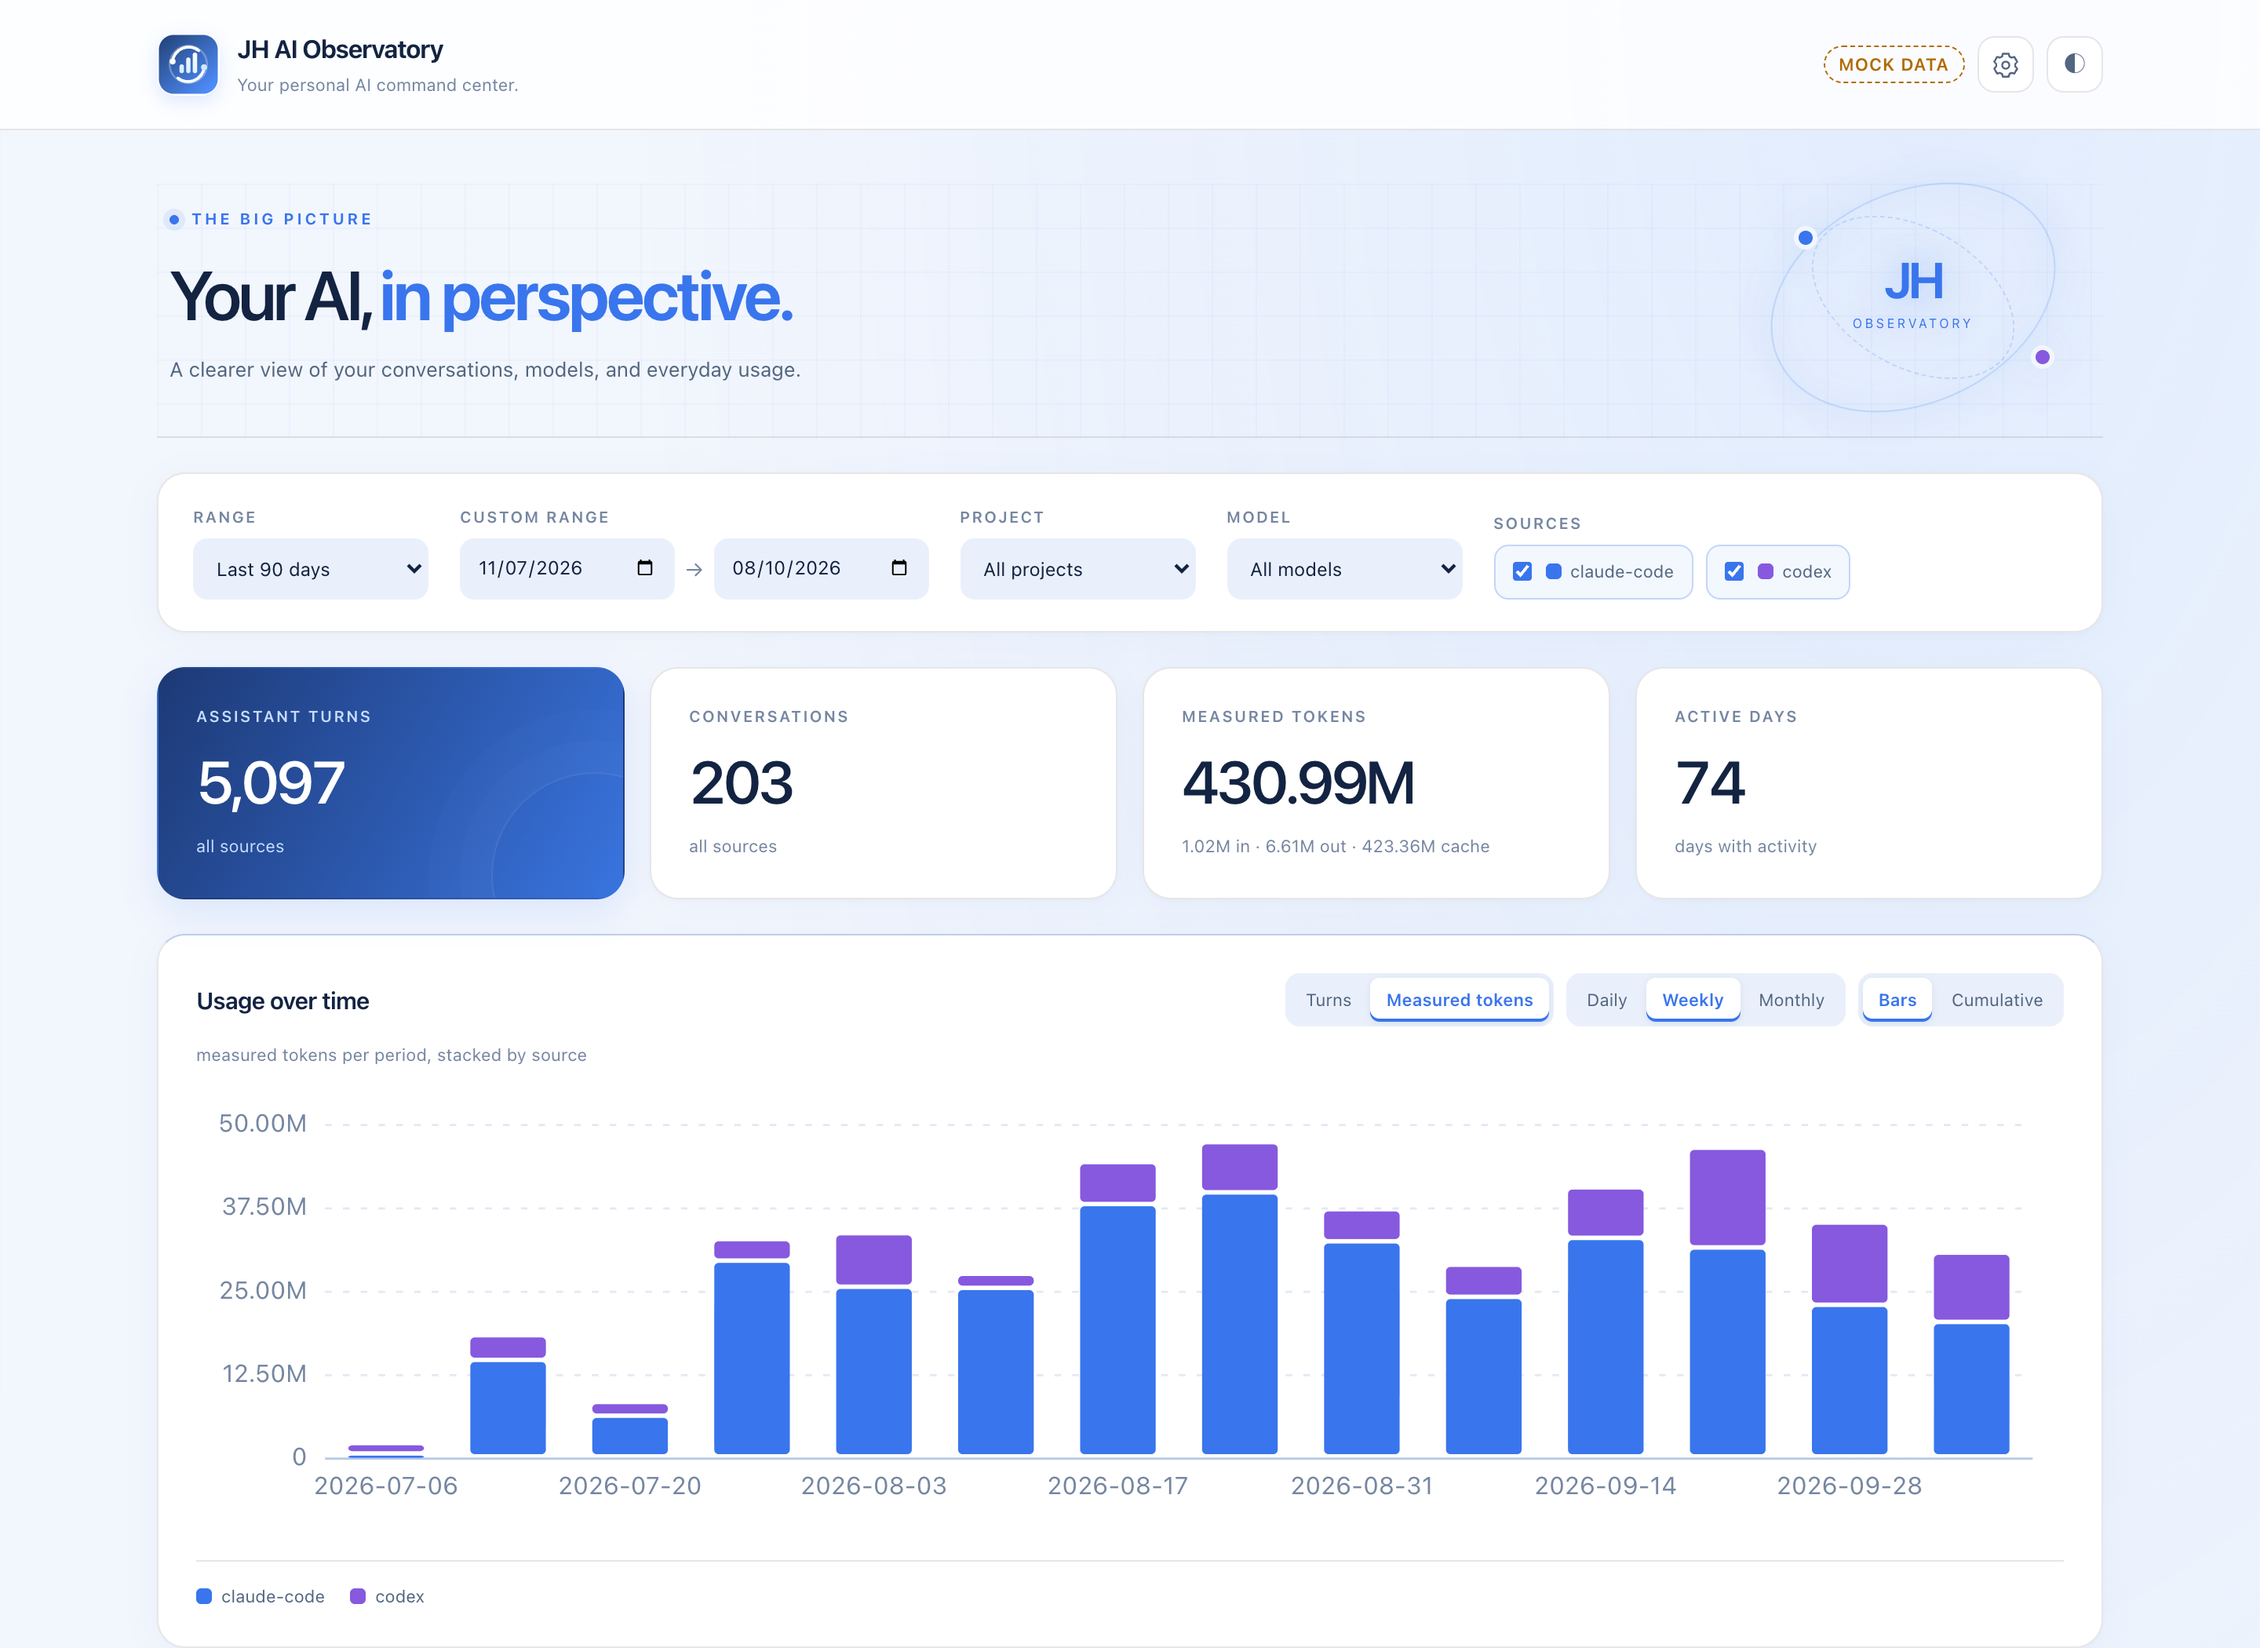
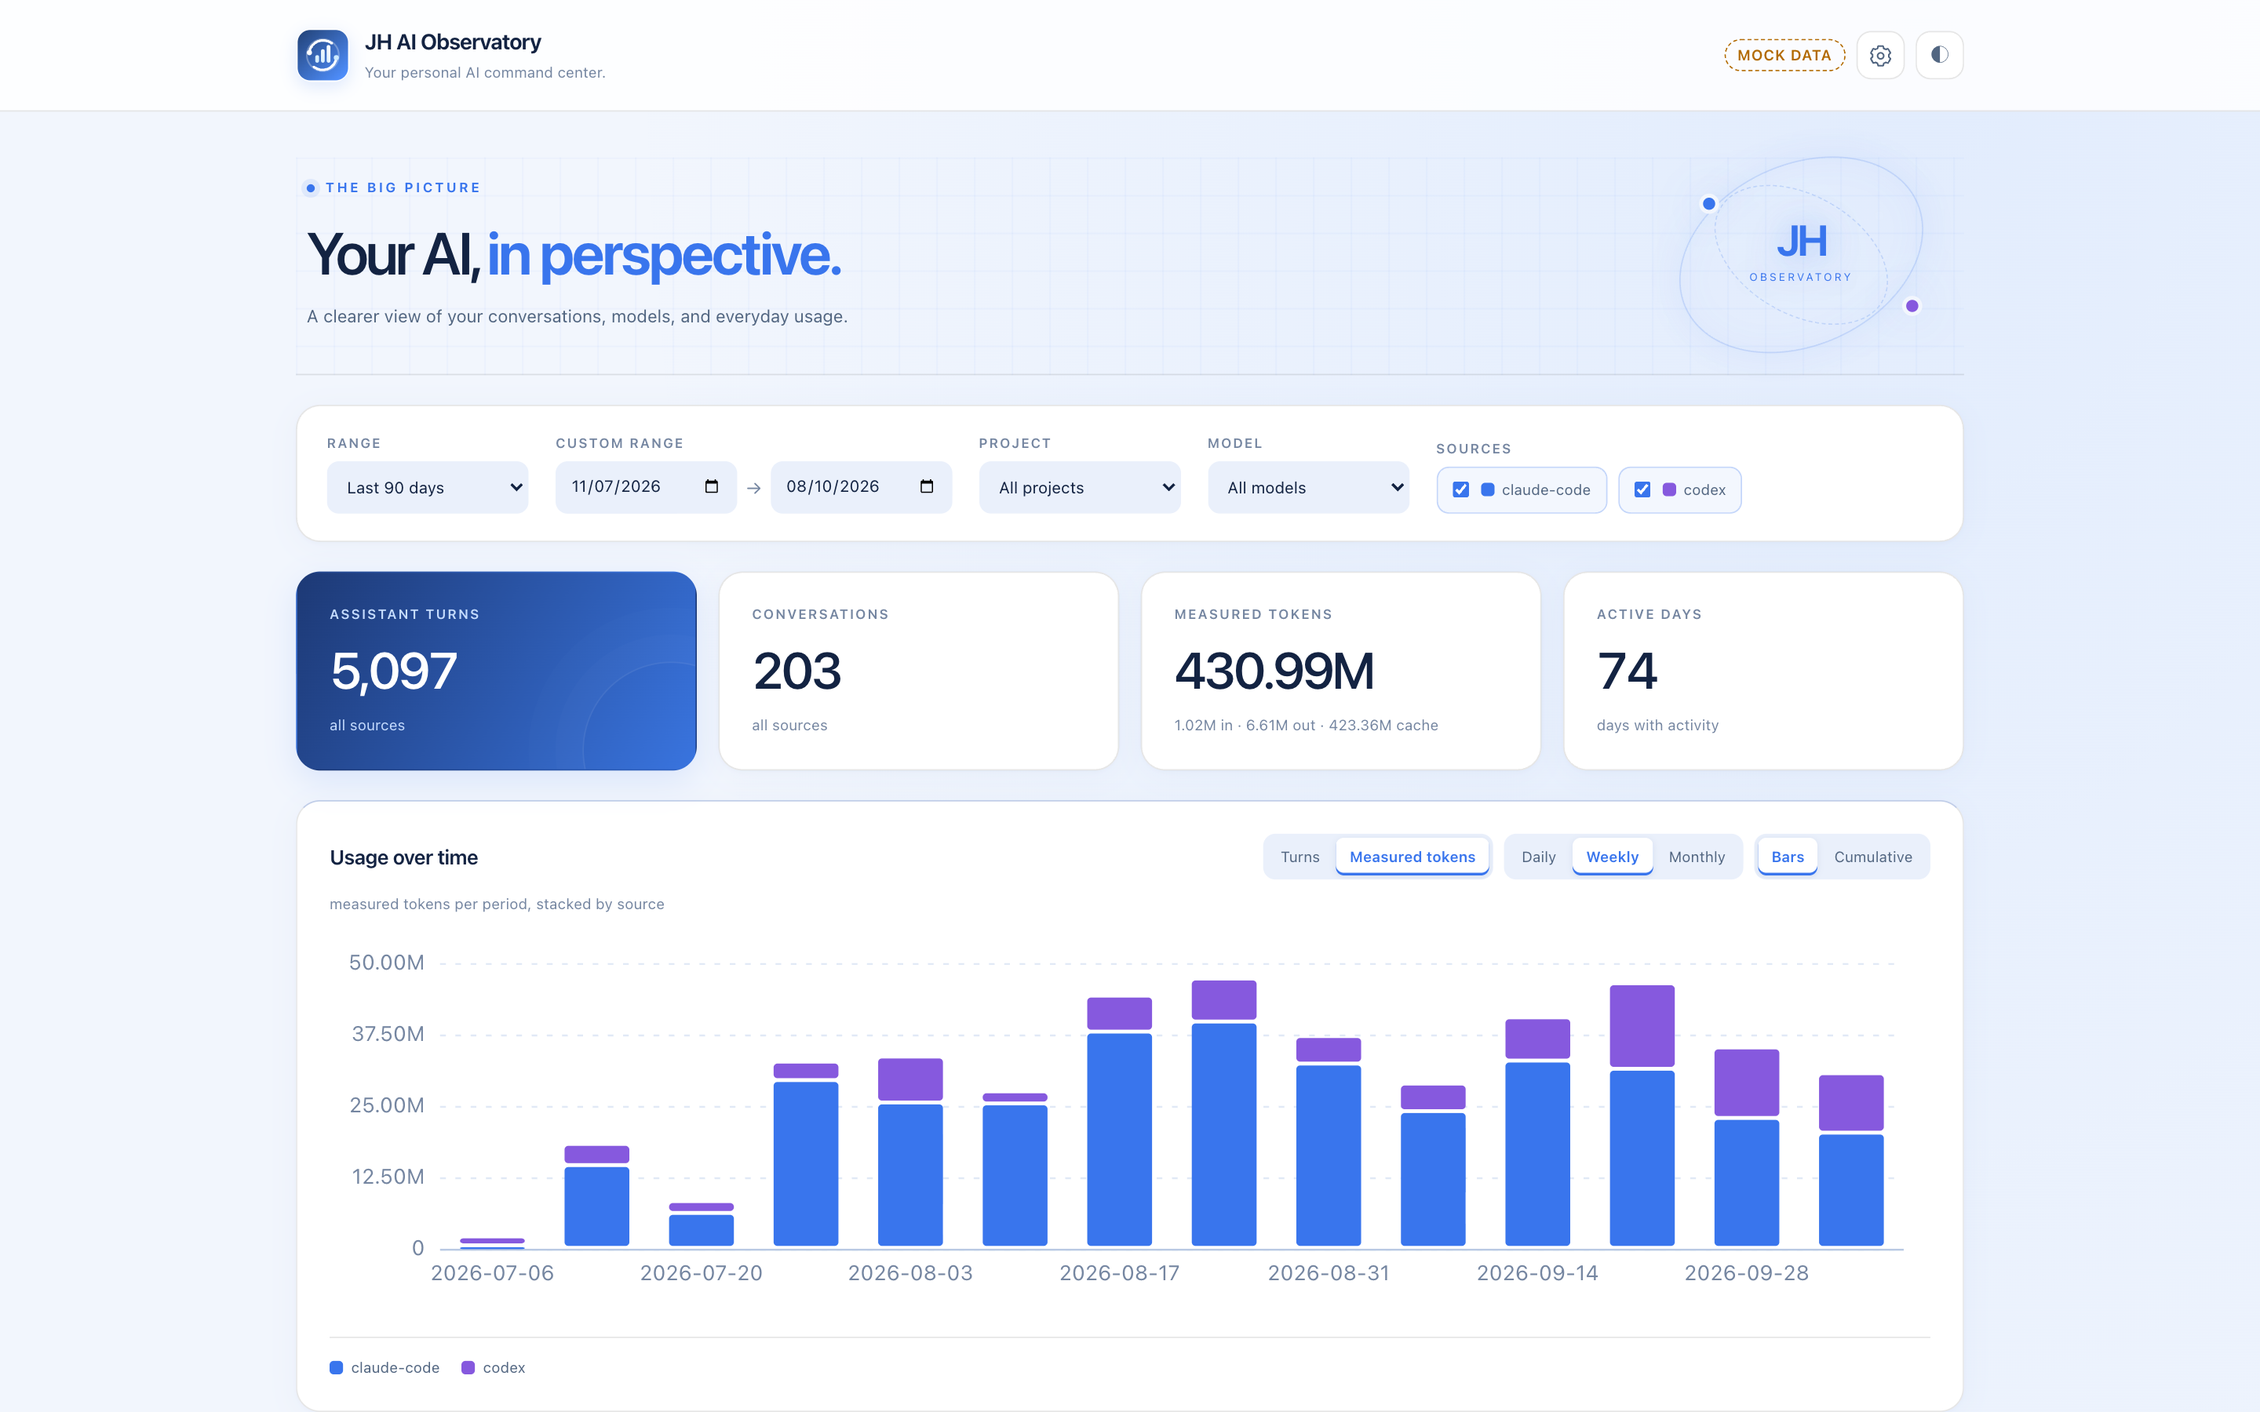
docs: use uniform 16:10 screenshots in README grid (#2)

diff --git a/README.md b/README.md
@@ -11,14 +11,15 @@ See your Claude Code and Codex usage by model, project and day, with token count
 
 <p align="center">
   <img width="48%" alt="Overview" src="docs/images/overview.png" />
-  <img width="48%" alt="Usage by model, source and project" src="docs/images/distributions.png" />
-</p>
-<p align="center">
   <img width="48%" alt="Dark theme" src="docs/images/dark.png" />
-  <img width="48%" alt="Settings and model pricing" src="docs/images/settings.png" />
 </p>
 <p align="center">
-  <img width="72%" alt="Breakdown table" src="docs/images/breakdown.png" />
+  <img width="48%" alt="Usage by model, source and project" src="docs/images/breakdowns.png" />
+  <img width="48%" alt="Breakdown table" src="docs/images/table.png" />
+</p>
+<p align="center">
+  <img width="48%" alt="Settings" src="docs/images/settings.png" />
+  <img width="48%" alt="Model pricing and API cost calculator" src="docs/images/pricing.png" />
 </p>
 
 <p align="center"><sub>All screenshots use the built-in mock data. Every number and project name is generated.</sub></p>
